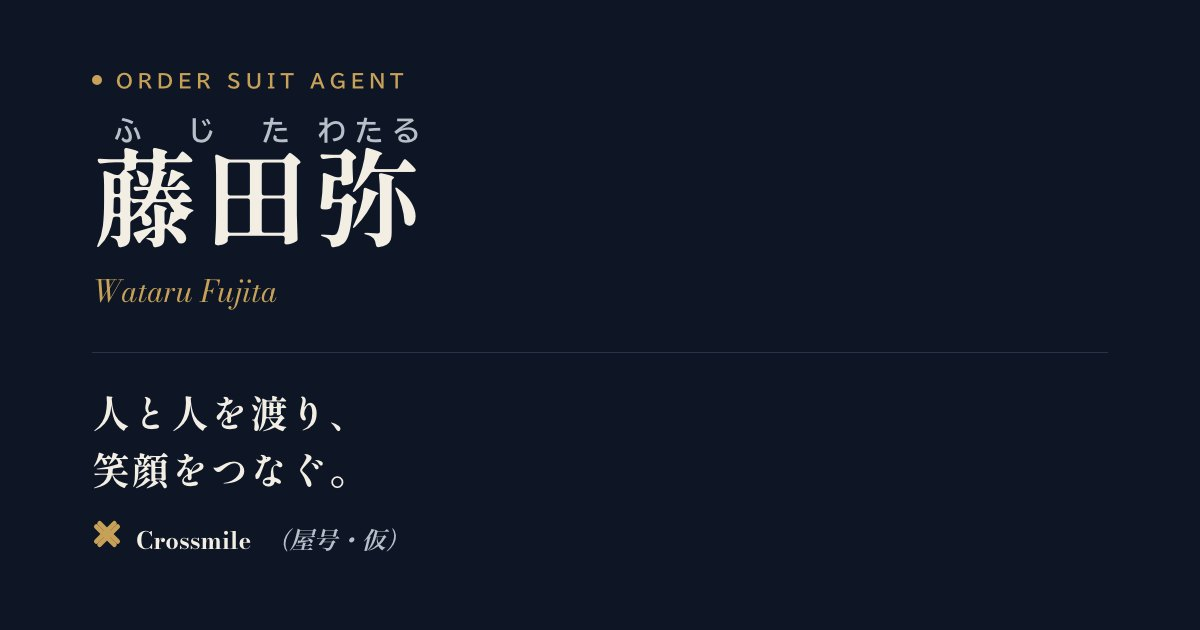
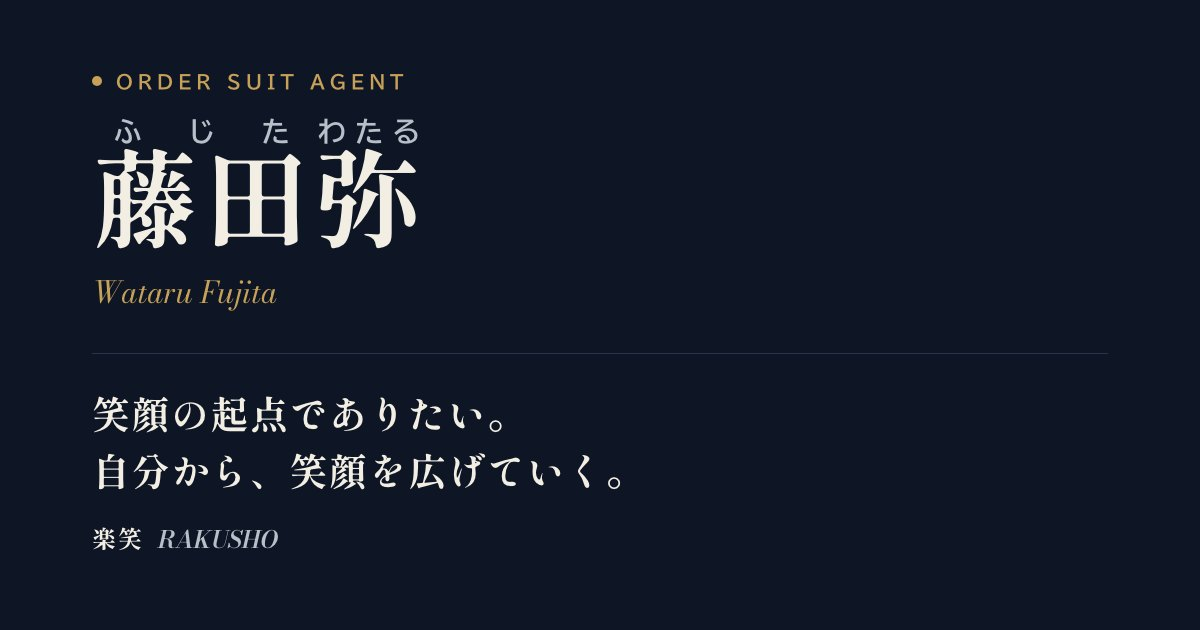
楽笑の理念・ブランドストーリーとロゴを反映（屋号をCrossmileから楽笑へ）
Claude-Session: https://claude.ai/code/session_017y8kmMmcdiB8tRD3jpuV5Q

diff --git a/index.html b/index.html
@@ -4,27 +4,27 @@
 <head>
 <meta charset="utf-8"/>
 <meta content="width=device-width, initial-scale=1" name="viewport"/>
-<title>藤田 弥｜Crossmile</title>
-<meta content="藤田弥（ふじた わたる）の自己紹介ページです。栃木県足利市で育ち、サッカーを経て、オーダースーツの営業を個人事業主として始めました。屋号はCrossmile（仮）です。" name="description"/>
+<title>藤田 弥｜楽笑 RAKUSHO</title>
+<meta content="藤田弥（ふじた わたる）の自己紹介ページです。栃木県足利市で育ち、サッカーを経て、オーダースーツの営業を個人事業主として始めました。屋号は楽笑（RAKUSHO）です。" name="description"/>
 <meta content="noindex,nofollow" name="robots"/>
 <link href="https://ryoseiimai.github.io/crossmile/" rel="canonical"/>
 <meta content="website" property="og:type"/>
-<meta content="Crossmile" property="og:site_name"/>
+<meta content="楽笑 RAKUSHO" property="og:site_name"/>
 <meta content="ja_JP" property="og:locale"/>
-<meta content="藤田 弥｜Crossmile" property="og:title"/>
-<meta content="藤田弥（ふじた わたる）。栃木県足利市で育ち、サッカーを経て、オーダースーツの営業を個人事業主として始めました。屋号はCrossmile（仮）です。" property="og:description"/>
+<meta content="藤田 弥｜楽笑 RAKUSHO" property="og:title"/>
+<meta content="藤田弥（ふじた わたる）。栃木県足利市で育ち、サッカーを経て、オーダースーツの営業を個人事業主として始めました。屋号は楽笑（RAKUSHO）です。" property="og:description"/>
 <meta content="https://ryoseiimai.github.io/crossmile/" property="og:url"/>
 <meta content="https://ryoseiimai.github.io/crossmile/img/ogp.jpg" property="og:image"/>
 <meta content="1200" property="og:image:width"/>
 <meta content="630" property="og:image:height"/>
-<meta content="紺の地に、金の二重線の×マークと藤田弥・Crossmileの文字、一文「人と人を渡り、笑顔をつなぐ。」" property="og:image:alt"/>
+<meta content="紺の地に、金の明朝体で「楽笑」の文字と藤田弥・RAKUSHOの文字、一文「自分から、笑顔を広げていく。」" property="og:image:alt"/>
 <meta content="summary_large_image" name="twitter:card"/>
 <meta content="#0E1626" name="theme-color"/>
 <link href="img/favicon-32.png" rel="icon" sizes="32x32" type="image/png"/>
 <link href="favicon.svg" rel="icon" type="image/svg+xml"/>
 <link href="https://fonts.googleapis.com" rel="preconnect"/>
 <link crossorigin="" href="https://fonts.gstatic.com" rel="preconnect"/>
-<link href="https://fonts.googleapis.com/css2?family=BIZ+UDPGothic:wght@400;700&amp;display=swap&amp;text=%21%22%23%24%25%26%27%28%29%2A%2B%2C-.%2F0123456789%3A%3B%3C%3D%3E%3F%40ABCDEFGHIJKLMNOPQRSTUVWXYZ%5B%5C%5D%5E_%60abcdefghijklmnopqrstuvwxyz%7B%7C%7D~%C2%A9%E2%80%A6%E2%86%92%E2%86%93%E2%86%97%E3%80%80%E3%80%81%E3%80%82%E3%80%85%E3%80%8C%E3%80%8D%E3%80%8E%E3%80%8F%E3%80%9C%E3%81%82%E3%81%84%E3%81%86%E3%81%88%E3%81%8A%E3%81%8B%E3%81%8C%E3%81%8D%E3%81%8F%E3%81%90%E3%81%91%E3%81%92%E3%81%93%E3%81%94%E3%81%97%E3%81%98%E3%81%99%E3%81%9A%E3%81%9B%E3%81%9D%E3%81%9F%E3%81%A0%E3%81%A1%E3%81%A3%E3%81%A4%E3%81%A5%E3%81%A6%E3%81%A7%E3%81%A8%E3%81%AA%E3%81%AB%E3%81%AE%E3%81%AF%E3%81%B0%E3%81%B1%E3%81%B3%E3%81%B5%E3%81%B8%E3%81%BE%E3%81%BF%E3%82%80%E3%82%81%E3%82%82%E3%82%84%E3%82%88%E3%82%89%E3%82%8A%E3%82%8B%E3%82%8C%E3%82%8D%E3%82%8F%E3%82%92%E3%82%93%E3%82%A4%E3%82%A8%E3%82%AA%E3%82%AB%E3%82%B0%E3%82%B4%E3%82%B5%E3%82%B8%E3%82%B9%E3%82%BF%E3%83%80%E3%83%83%E3%83%84%E3%83%86%E3%83%89%E3%83%8D%E3%83%93%E3%83%97%E3%83%9A%E3%83%9B%E3%83%9E%E3%83%A1%E3%83%A5%E3%83%A9%E3%83%AA%E3%83%AB%E3%83%AC%E3%83%B3%E3%83%BB%E3%83%BC%E4%B8%80%E4%B8%8A%E4%B8%A1%E4%B8%AD%E4%B8%BB%E4%BA%8B%E4%BA%AC%E4%BA%BA%E4%BB%8B%E4%BB%95%E4%BB%98%E4%BB%A3%E4%BB%AE%E4%BC%9A%E4%BD%93%E4%BD%95%E4%BF%AE%E5%80%8B%E5%82%99%E5%83%8D%E5%83%95%E5%84%AA%E5%85%88%E5%85%89%E5%85%A5%E5%85%A8%E5%86%85%E5%87%BA%E5%88%86%E5%88%A9%E5%89%8D%E5%8B%95%E5%8B%9D%E5%8B%A7%E5%8D%8A%E5%8D%A0%E5%8F%96%E5%8F%B7%E5%90%88%E5%90%8D%E5%95%8F%E5%96%B6%E5%9B%9E%E5%9B%BD%E5%9C%92%E5%A3%AB%E5%A3%B0%E5%A3%B2%E5%A4%A7%E5%A4%AA%E5%A5%91%E5%A5%BD%E5%A7%8B%E5%A9%9A%E5%AD%A6%E5%AE%9D%E5%AF%82%E5%AF%8C%E5%B0%8F%E5%B0%91%E5%B1%8A%E5%B1%8B%E5%B2%A9%E5%B8%82%E5%B9%B4%E5%BA%97%E5%BA%A7%E5%BC%95%E5%BC%A5%E5%BC%B5%E5%BD%A2%E5%BF%85%E6%80%9D%E6%81%A9%E6%84%9F%E6%88%90%E6%89%8B%E6%8A%BC%E6%8C%87%E6%8E%A2%E6%96%87%E6%96%B0%E6%96%B9%E6%97%A5%E6%9B%B4%E6%9C%88%E6%9C%A8%E6%9C%AC%E6%9D%B1%E6%9E%9A%E6%A0%83%E6%A1%88%E6%A5%AD%E6%AC%A1%E6%AD%A9%E6%AD%B4%E6%AF%8D%E6%AF%8E%E6%B0%97%E6%B1%A0%E6%B1%BA%E6%B8%A1%E6%BA%96%E7%90%86%E7%94%9F%E7%94%B0%E7%94%B1%E7%94%B3%E7%99%BA%E7%9C%8C%E7%9D%80%E7%9F%A5%E7%9F%B3%E7%A0%94%E7%A4%BE%E7%A7%BB%E7%A8%BC%E7%AB%8B%E7%AC%91%E7%B4%84%E7%B4%B9%E7%B5%8C%E7%B5%A1%E7%B6%9A%E7%B8%81%E7%B8%BE%E7%BE%BD%E8%80%83%E8%81%9E%E8%82%B2%E8%87%AA%E8%89%AF%E8%93%84%E8%97%A4%E8%A1%8C%E8%A6%81%E8%A6%8B%E8%A6%AA%E8%A8%80%E8%A8%AA%E8%AA%AD%E8%AA%B0%E8%B2%A9%E8%B5%A4%E8%B6%B3%E8%BC%AA%E8%BF%94%E9%80%A3%E9%80%B2%E9%81%8B%E9%81%B8%E9%83%A8%E9%87%91%E9%96%A2%E9%99%BD%E9%9B%86%E9%9B%A2%E9%9B%BB%E9%A0%91%E9%A0%AD%E9%A1%94%E9%A8%93%E9%AB%98%EF%BC%81%EF%BC%88%EF%BC%89%EF%BC%8F%EF%BC%9A%EF%BC%9D%EF%BC%9F" rel="stylesheet"/><link href="https://fonts.googleapis.com/css2?family=Shippori+Mincho+B1:wght@700&amp;display=swap&amp;text=%E2%80%A6%E2%86%92%E2%86%93%E2%86%97%E3%80%80%E3%80%81%E3%80%82%E3%80%85%E3%80%8C%E3%80%8D%E3%80%8E%E3%80%8F%E3%80%9C%E3%81%84%E3%81%86%E3%81%8B%E3%81%8C%E3%81%8D%E3%81%90%E3%81%91%E3%81%97%E3%81%98%E3%81%99%E3%81%9F%E3%81%A0%E3%81%A3%E3%81%A4%E3%81%A7%E3%81%A8%E3%81%AA%E3%81%AB%E3%81%AE%E3%81%B3%E3%81%B5%E3%81%BE%E3%82%82%E3%82%88%E3%82%89%E3%82%8A%E3%82%8B%E3%82%8F%E3%82%92%E3%82%93%E3%82%A8%E3%82%AB%E3%82%B5%E3%82%B8%E3%82%B9%E3%83%83%E3%83%84%E3%83%A5%E3%83%AA%E3%83%BB%E3%83%BC%E4%B8%BB%E4%BA%8B%E4%BA%BA%E4%BB%95%E4%BC%9A%E5%80%8B%E5%83%8D%E5%85%88%E5%88%A9%E5%A5%BD%E5%AE%9D%E5%BC%A5%E6%80%9D%E6%81%A9%E6%8E%A2%E6%97%A5%E6%A5%AD%E6%AC%A1%E6%AD%B4%E6%AF%8D%E6%B8%A1%E7%94%B0%E7%94%B1%E7%9F%B3%E7%A4%BE%E7%AC%91%E7%B5%8C%E7%B5%A1%E7%B6%9A%E8%87%AA%E8%97%A4%E8%A6%8B%E8%B6%B3%E8%BF%94%E9%80%A3%E9%81%B8%E9%A1%94%EF%BC%81%EF%BC%88%EF%BC%89%EF%BC%8F%EF%BC%9A%EF%BC%9F" rel="stylesheet"/><link href="https://fonts.googleapis.com/css2?family=Bodoni+Moda:ital,wght@0,400;0,500;0,600;1,400;1,500;1,600&amp;display=swap&amp;text=%2C.0123456789CEFIJLMNORSTWabehijlmnorstuwy%E3%80%81%E3%81%84%E3%81%93%E3%81%97%E3%81%9F%E3%81%A1%E3%81%A3%E3%81%A6%E3%81%A8%E3%81%AE%E3%81%B0%E3%82%8B%E3%82%8D%E3%82%92%E3%82%93%E3%82%AB%E3%82%B5%E3%82%B9%E3%83%83%E3%83%84%E3%83%BC%E4%BB%AE%E5%85%89%E5%95%8F%E5%A3%B2%E5%A4%AA%E6%9E%9A%E6%B1%A0%E7%99%BA%E7%9D%80%E7%AC%91%E8%93%84%E8%A8%AA%E8%B2%A9%E9%99%BD%E9%9B%BB" rel="stylesheet"/>
+<link href="https://fonts.googleapis.com/css2?family=BIZ+UDPGothic:wght@400;700&amp;display=swap&amp;text=%21%22%23%24%25%26%27%28%29%2A%2B%2C-.%2F0123456789%3A%3B%3C%3D%3E%3F%40ABCDEFGHIJKLMNOPQRSTUVWXYZ%5B%5C%5D%5E_%60abcdefghijklmnopqrstuvwxyz%7B%7C%7D~%C2%A9%E2%80%A6%E2%86%92%E2%86%93%E2%86%97%E3%80%80%E3%80%81%E3%80%82%E3%80%85%E3%80%8C%E3%80%8D%E3%80%8E%E3%80%8F%E3%80%9C%E3%81%82%E3%81%84%E3%81%86%E3%81%88%E3%81%8A%E3%81%8B%E3%81%8C%E3%81%8D%E3%81%8E%E3%81%8F%E3%81%90%E3%81%91%E3%81%92%E3%81%93%E3%81%94%E3%81%95%E3%81%97%E3%81%98%E3%81%99%E3%81%9B%E3%81%9D%E3%81%9F%E3%81%A0%E3%81%A1%E3%81%A3%E3%81%A4%E3%81%A5%E3%81%A6%E3%81%A7%E3%81%A8%E3%81%A9%E3%81%AA%E3%81%AB%E3%81%AD%E3%81%AE%E3%81%AF%E3%81%B0%E3%81%B2%E3%81%B3%E3%81%B5%E3%81%B8%E3%81%BB%E3%81%BE%E3%81%BF%E3%82%80%E3%82%81%E3%82%82%E3%82%84%E3%82%88%E3%82%89%E3%82%8A%E3%82%8B%E3%82%8C%E3%82%8D%E3%82%8F%E3%82%92%E3%82%93%E3%82%A4%E3%82%A8%E3%82%AA%E3%82%AB%E3%82%AE%E3%82%B0%E3%82%B5%E3%82%B8%E3%82%B9%E3%82%BB%E3%82%BF%E3%83%80%E3%83%83%E3%83%84%E3%83%89%E3%83%8D%E3%83%93%E3%83%96%E3%83%97%E3%83%9A%E3%83%9B%E3%83%A1%E3%83%A5%E3%83%A9%E3%83%AA%E3%83%AB%E3%83%AC%E3%83%AD%E3%83%B3%E3%83%BB%E3%83%BC%E4%B8%80%E4%B8%8E%E4%B8%96%E4%B8%A1%E4%B8%AD%E4%B8%BB%E4%BA%8B%E4%BA%92%E4%BA%AC%E4%BA%BA%E4%BB%8B%E4%BB%95%E4%BB%A3%E4%BB%B2%E4%BC%81%E4%BC%9A%E4%BC%B8%E4%BD%93%E4%BD%95%E4%BD%BF%E4%BE%A1%E4%BF%82%E4%BF%A1%E4%BF%AE%E5%80%8B%E5%80%A4%E5%82%99%E5%83%8D%E5%83%95%E5%84%AA%E5%85%86%E5%85%88%E5%85%89%E5%85%A5%E5%85%A8%E5%86%85%E5%87%BA%E5%88%86%E5%88%87%E5%88%A5%E5%88%A9%E5%89%8D%E5%8A%9B%E5%8A%A9%E5%8B%95%E5%8B%9D%E5%8C%96%E5%8D%8A%E5%8D%A0%E5%8F%96%E5%8F%A3%E5%8F%B0%E5%90%88%E5%90%8D%E5%90%91%E5%91%BD%E5%95%8F%E5%96%9C%E5%96%B6%E5%9B%9E%E5%9B%BD%E5%9C%92%E5%9E%8B%E5%A2%97%E5%A3%AB%E5%A3%B2%E5%A4%89%E5%A4%9A%E5%A4%A7%E5%A4%AA%E5%A5%BD%E5%A7%8B%E5%A9%9A%E5%AD%A6%E5%AE%9D%E5%AE%A2%E5%AF%82%E5%AF%8C%E5%B0%8F%E5%B0%91%E5%B1%8A%E5%B2%A9%E5%B3%B6%E5%B4%8E%E5%B8%82%E5%B9%95%E5%B9%B4%E5%B9%B9%E5%BA%83%E5%BA%97%E5%BA%A7%E5%BC%95%E5%BC%A5%E5%BC%B5%E5%BD%A2%E5%BD%BC%E5%BE%8C%E5%BF%85%E5%BF%B5%E6%80%9D%E6%80%A7%E6%81%A9%E6%82%94%E6%83%B3%E6%84%9F%E6%88%90%E6%88%A6%E6%89%8B%E6%8A%BC%E6%8C%81%E6%8C%87%E6%8C%91%E6%8C%AF%E6%8E%A2%E6%8E%A5%E6%8F%8F%E6%94%B9%E6%96%87%E6%96%B0%E6%96%B9%E6%97%A5%E6%98%94%E6%9C%80%E6%9C%88%E6%9C%8D%E6%9C%A8%E6%9C%AA%E6%9C%AC%E6%9D%A5%E6%9D%B1%E6%9E%9A%E6%9E%9C%E6%9E%9D%E6%9F%84%E6%A0%83%E6%A1%88%E6%A5%AD%E6%A5%BD%E6%A7%98%E6%AC%A1%E6%AD%A9%E6%AD%B4%E6%AE%8B%E6%AF%8D%E6%AF%8E%E6%B0%97%E6%B1%A0%E6%B1%BA%E6%B8%A1%E6%BA%96%E6%BF%B1%E7%82%B9%E7%84%A1%E7%90%86%E7%94%9F%E7%94%B0%E7%94%B1%E7%94%B3%E7%95%8C%E7%95%AA%E7%99%BA%E7%9B%AE%E7%9B%B4%E7%9C%8C%E7%9D%80%E7%9F%A5%E7%9F%B3%E7%A0%94%E7%A3%A8%E7%A4%BE%E7%A7%BB%E7%A8%BC%E7%A9%8D%E7%AB%8B%E7%AC%91%E7%AF%89%E7%B4%B9%E7%B5%82%E7%B5%8C%E7%B5%90%E7%B5%A1%E7%B6%9A%E7%B7%92%E7%B8%81%E7%B8%BE%E7%BA%8F%E7%BE%BD%E8%80%83%E8%81%9E%E8%82%B2%E8%87%AA%E8%88%9E%E8%91%89%E8%93%84%E8%97%A4%E8%A1%8C%E8%A3%85%E8%A6%81%E8%A6%8B%E8%A6%AA%E8%A6%B3%E8%A7%A6%E8%A8%80%E8%A8%AA%E8%A9%B1%E8%AA%AD%E8%AA%B0%E8%B1%8A%E8%B2%A0%E8%B2%A9%E8%B5%A4%E8%B5%B7%E8%B6%85%E8%B6%B3%E8%BA%AB%E8%BB%A2%E8%BC%AA%E8%BE%BC%E8%BF%94%E9%80%81%E9%80%A3%E9%80%B2%E9%81%8B%E9%81%95%E9%81%B8%E9%83%A8%E9%87%8D%E9%87%91%E9%8E%96%E9%95%B7%E9%96%89%E9%96%93%E9%96%A2%E9%99%90%E9%99%BD%E9%9B%A2%E9%9B%BB%E9%A0%91%E9%A0%AD%E9%A0%BC%E9%A1%94%E9%A3%9B%E9%AB%98%E9%AB%AA%E9%AD%85%EF%BC%81%EF%BC%88%EF%BC%89%EF%BC%8F%EF%BC%9A%EF%BC%9F" rel="stylesheet"/><link href="https://fonts.googleapis.com/css2?family=Shippori+Mincho+B1:wght@700&amp;display=swap&amp;text=%E2%80%A6%E2%86%92%E2%86%93%E2%86%97%E3%80%80%E3%80%81%E3%80%82%E3%80%85%E3%80%8C%E3%80%8D%E3%80%8E%E3%80%8F%E3%80%9C%E3%81%82%E3%81%84%E3%81%86%E3%81%8B%E3%81%8C%E3%81%8D%E3%81%8F%E3%81%91%E3%81%92%E3%81%97%E3%81%98%E3%81%99%E3%81%9F%E3%81%A3%E3%81%A4%E3%81%A6%E3%81%A7%E3%81%A8%E3%81%AA%E3%81%AB%E3%81%AE%E3%81%B5%E3%81%BE%E3%82%82%E3%82%88%E3%82%89%E3%82%8A%E3%82%8B%E3%82%8C%E3%82%8F%E3%82%92%E3%82%93%E3%82%A8%E3%82%AB%E3%82%B5%E3%82%B8%E3%82%B9%E3%83%83%E3%83%84%E3%83%A5%E3%83%AA%E3%83%BB%E3%83%BC%E4%B8%80%E4%B8%BB%E4%BA%8B%E4%BA%BA%E4%BB%95%E4%BC%9A%E5%80%8B%E5%83%8D%E5%85%88%E5%87%BA%E5%88%86%E5%88%A9%E5%A3%B2%E5%A5%BD%E5%AE%9D%E5%BA%83%E5%BC%A5%E5%BF%B5%E6%80%9D%E6%81%A9%E6%8E%A2%E6%97%A5%E6%9E%9D%E6%A5%AD%E6%A5%BD%E6%AC%A1%E6%AD%B4%E6%AF%8D%E7%82%B9%E7%84%A1%E7%90%86%E7%94%9F%E7%94%B0%E7%94%B1%E7%9F%B3%E7%A4%BE%E7%AC%91%E7%B5%82%E7%B5%8C%E7%B5%A1%E7%B6%9A%E8%87%AA%E8%91%89%E8%97%A4%E8%A6%8B%E8%B5%B7%E8%B6%B3%E8%BF%94%E9%80%A3%E9%99%90%E9%A0%BC%E9%A1%94%EF%BC%81%EF%BC%88%EF%BC%89%EF%BC%8F%EF%BC%9A%EF%BC%9F" rel="stylesheet"/><link href="https://fonts.googleapis.com/css2?family=Bodoni+Moda:ital,wght@0,400;0,500;0,600;1,400;1,500;1,600&amp;display=swap&amp;text=%2C.0123456789AFHJKNORSTUWabehijnorstuwy%E3%80%81%E3%81%84%E3%81%93%E3%81%97%E3%81%9F%E3%81%A1%E3%81%A3%E3%81%A6%E3%81%A8%E3%81%AE%E3%81%B0%E3%82%8B%E3%82%8D%E3%82%92%E3%82%93%E3%82%AB%E3%82%B5%E3%82%B9%E3%83%83%E3%83%84%E3%83%BC%E5%85%89%E5%95%8F%E5%A3%B2%E5%A4%AA%E6%9E%9A%E6%B1%A0%E7%99%BA%E7%9D%80%E7%AC%91%E8%93%84%E8%A8%AA%E8%B2%A9%E9%99%BD%E9%9B%BB" rel="stylesheet"/>
 <script>
 
 document.documentElement.classList.add('js');
@@ -90,8 +90,7 @@ p,li,dd,figcaption{text-wrap:pretty}
 .skip:focus{top:12px}
 
 
-.icon-x2{display:inline-block;flex:none;width:1em;height:1em;vertical-align:-0.12em}
-.icon-x2 line{stroke:currentColor;stroke-width:1.5;stroke-linecap:round}
+.mark-rakusho{font-family:var(--font-mincho);font-weight:700;letter-spacing:.08em;color:var(--gold)}
 
 
 .label{display:inline-flex;align-items:center;gap:.75em;font-size:12.5px;font-weight:700;line-height:1.4;letter-spacing:.22em;text-transform:uppercase;color:var(--gold-deep)}
@@ -116,9 +115,10 @@ p,li,dd,figcaption{text-wrap:pretty}
 .site-header{position:sticky;top:0;z-index:50;background:rgba(14,22,38,.94);-webkit-backdrop-filter:saturate(1.1) blur(10px);backdrop-filter:saturate(1.1) blur(10px);transition:box-shadow .3s}
 .site-header.is-scrolled{box-shadow:0 1px 0 var(--line-navy)}
 .header-inner{display:flex;align-items:center;justify-content:space-between;gap:24px;height:var(--header-h)}
-.logo{flex:none;display:inline-flex;align-items:center;gap:7px;white-space:nowrap;font-family:var(--font-serif);font-style:italic;font-weight:600;font-size:21px;letter-spacing:0;line-height:1;text-decoration:none;color:var(--on-navy);padding:6px 2px}
-.logo .icon-x2{color:var(--gold);font-size:16px}
-.logo-tag{font-family:var(--font-gothic);font-style:normal;font-weight:700;font-size:10.5px;letter-spacing:.04em;color:var(--on-navy-2)}
+.logo{flex:none;display:inline-flex;align-items:baseline;gap:8px;white-space:nowrap;line-height:1;text-decoration:none;color:var(--on-navy);padding:6px 2px}
+.logo .mark-rakusho{font-size:22px}
+.logo .logo-en{font-family:var(--font-serif);font-style:italic;font-weight:600;font-size:12.5px;letter-spacing:.06em;color:var(--on-navy-2)}
+.logo .logo-mark{width:40px;height:40px;display:block}
 .gnav ul{display:flex;align-items:center;gap:clamp(16px,2vw,30px)}
 .gnav a{position:relative;display:block;white-space:nowrap;font-size:12.5px;font-weight:700;letter-spacing:.18em;line-height:1.4;text-decoration:none;color:var(--on-navy-2);padding:8px 0;transition:color .2s}
 .gnav a:not(.nav-contact)::after{content:"";position:absolute;left:0;right:.2em;bottom:2px;height:1.5px;background:var(--gold);transform:scaleX(0);transform-origin:left;transition:transform .35s var(--ease)}
@@ -165,7 +165,7 @@ html.menu-open{overflow:hidden}
 .hero .intro{margin-top:22px;max-width:30em;color:var(--on-navy-2)}
 .hero .tagline{margin-top:26px;font-size:clamp(23px,2.6vw,32px);line-height:1.55;letter-spacing:.04em;color:var(--on-navy)}
 .signature{margin-top:20px;display:flex;align-items:baseline;gap:10px;font-size:13px;font-weight:700;letter-spacing:.14em;color:var(--on-navy-2)}
-.signature .icon-x2{color:var(--gold);font-size:17px}
+.signature .mark-rakusho{font-size:19px}
 .signature .en{font-family:var(--font-serif);font-style:italic;letter-spacing:.02em;color:var(--gold)}
 .signature .slash{color:var(--line-navy)}
 .origin-note{margin-top:10px;font-size:14.5px;line-height:1.8;color:var(--on-navy-2);max-width:27em}
@@ -176,6 +176,8 @@ html.menu-open{overflow:hidden}
 .origin-inner{max-width:620px;margin-inline:auto;text-align:center}
 .origin-inner .signature{justify-content:center;margin-top:0}
 .origin-inner .origin-note{margin-inline:auto}
+.origin-logo{width:clamp(140px,22vw,200px);height:auto;margin-inline:auto}
+.origin-logo+.origin-note{margin-top:18px}
 .btn{display:inline-flex;align-items:center;justify-content:center;gap:.6em;min-height:50px;padding:0 26px;border-radius:var(--r-sm);font-size:14.5px;font-weight:700;letter-spacing:.08em;line-height:1.4;text-decoration:none;border:1.5px solid var(--gold);color:var(--on-navy);background:none;transition:background .2s,color .2s}
 .btn:hover{background:var(--gold);color:var(--ink)}
 .btn .arw{font-size:1.05em;line-height:1;transition:transform .25s var(--ease)}
@@ -260,6 +262,27 @@ html.menu-open{overflow:hidden}
 @media (min-width:1080px){.now-grid .now-photo{max-width:260px}}
 
 
+.philosophy{padding:var(--sec) 0}
+.ph-block+.ph-block{margin-top:clamp(52px,7vw,88px);padding-top:clamp(40px,5vw,60px);border-top:1px solid var(--line-paper)}
+.ph-block h3{font-size:clamp(23px,2.8vw,30px);line-height:1.6;letter-spacing:.03em}
+.ph-block .prose{margin-top:18px}
+.ph-quote{margin-top:22px;font-family:var(--font-mincho);font-weight:700;font-size:clamp(19px,2.2vw,24px);line-height:1.8;letter-spacing:.03em;color:var(--ink)}
+.ph-vision{margin-top:clamp(52px,7vw,88px);padding:clamp(40px,5vw,56px) clamp(28px,4vw,48px);background:var(--navy);color:var(--on-navy);border-radius:var(--r-lg)}
+.ph-vision .label{color:var(--gold)}
+.ph-vision h3{margin-top:14px;color:var(--on-navy);font-size:clamp(25px,3.2vw,34px);line-height:1.6}
+.ph-vision .prose{margin-top:18px;color:var(--on-navy-2)}
+.ph-table{margin-top:clamp(52px,7vw,88px)}
+.ph-table table{width:100%;border-collapse:collapse}
+.ph-table th,.ph-table td{text-align:left;padding:18px 16px;border-bottom:1px solid var(--line-paper);vertical-align:top}
+.ph-table th{width:9.5em;font-family:var(--font-mincho);font-weight:700;font-size:14.5px;letter-spacing:.06em;color:var(--gold-deep)}
+.ph-table td{font-size:15.5px;line-height:1.85;color:var(--ink-2)}
+@media (max-width:719px){
+  .ph-table th,.ph-table td{display:block;width:auto;padding:4px 0}
+  .ph-table tr{display:block;padding:16px 0;border-bottom:1px solid var(--line-paper)}
+  .ph-table th,.ph-table td{border-bottom:0}
+}
+
+
 .contact{padding:var(--sec) 0 calc(var(--sec)*.8)}
 .contact .lead{margin-top:24px;max-width:34em}
 .contact h2{margin-top:20px;font-size:clamp(28px,4vw,52px);line-height:1.5;letter-spacing:.03em}
@@ -278,13 +301,14 @@ html.menu-open{overflow:hidden}
 <a class="skip" href="#main">本文へ<wbr>移動</a>
 <header class="site-header">
 <div class="wrap header-inner">
-<a aria-label="Crossmile（屋号は仮）　ページの先頭へ" class="logo" href="#top"><svg aria-hidden="true" class="icon-x2" viewbox="0 0 20 20"><line x1="2.9" x2="14.9" y1="5.1" y2="17.1"></line><line x1="5.1" x2="17.1" y1="2.9" y2="14.9"></line><line x1="14.9" x2="2.9" y1="2.9" y2="14.9"></line><line x1="17.1" x2="5.1" y1="5.1" y2="17.1"></line></svg>Crossmile<span aria-hidden="true" class="logo-tag">仮</span></a>
+<a aria-label="楽笑　ページの先頭へ" class="logo" href="#top"><img alt="" class="logo-mark" height="40" src="img/rakusho-logo.png" width="40"/></a>
 <nav aria-label="ページ内の移動" class="gnav">
 <ul>
 <li><a data-nav="about" href="#about">ABOUT</a></li>
 <li><a data-nav="football" href="#football">FOOTBALL</a></li>
 <li><a data-nav="career" href="#career">CAREER</a></li>
 <li><a data-nav="now" href="#now">NOW</a></li>
+<li><a data-nav="philosophy" href="#philosophy">PHILOSOPHY</a></li>
 <li><a class="nav-contact" data-nav="contact" href="#contact">CONTACT</a></li>
 </ul>
 </nav>
@@ -298,9 +322,10 @@ html.menu-open{overflow:hidden}
 <li><a data-nav="football" href="#football"><span class="menu-jp">サッカー</span><span class="menu-en">FOOTBALL</span></a></li>
 <li><a data-nav="career" href="#career"><span class="menu-jp">経歴</span><span class="menu-en">CAREER</span></a></li>
 <li><a data-nav="now" href="#now"><span class="menu-jp">いまの<wbr>仕事</span><span class="menu-en">NOW</span></a></li>
+<li><a data-nav="philosophy" href="#philosophy"><span class="menu-jp">楽笑の<wbr>理念</span><span class="menu-en">PHILOSOPHY</span></a></li>
 <li><a data-nav="contact" href="#contact"><span class="menu-jp">連絡先</span><span class="menu-en">CONTACT</span></a></li>
 </ul>
-<p class="menu-note">オーダースーツの<wbr>営業　個人事業主　Crossmile<wbr>（屋号・仮）</p>
+<p class="menu-note">オーダースーツの<wbr>営業　個人事業主　楽笑<wbr> RAKUSHO</p>
 </nav>
 </div>
 <main id="main">
@@ -315,7 +340,7 @@ html.menu-open{overflow:hidden}
 <h1 id="name"><ruby>藤田<rt>ふじた</rt></ruby><ruby>弥<rt>わたる</rt></ruby></h1>
 <p class="en" lang="en">Wataru Fujita</p>
 <p class="intro">藤田弥と<wbr>申します。<wbr>仕事は、<wbr>オーダースーツの<wbr>営業です。<wbr>紹介で<wbr>つながった方に、<wbr>好きな<wbr>スーツを<wbr>届けていきます。</p>
-<p class="tagline mincho">人と<wbr>人を<wbr>渡り、<wbr>笑<wbr>顔を<wbr>つなぐ。</p>
+<p class="tagline mincho">笑<wbr>顔の<wbr>起点でありたい。<br/>自分から、笑顔を<wbr>広げていく。</p>
 <div class="cta">
 <a class="btn" href="#career">歩みを<wbr>読む<span aria-hidden="true" class="arw">↓</span></a>
 <a class="btn" href="#contact">連絡先</a>
@@ -325,8 +350,8 @@ html.menu-open{overflow:hidden}
 </section>
 <section aria-label="屋号について" class="origin-band band-navy-deep">
 <div class="wrap origin-inner">
-<p aria-label="金の二重線の×印。CROSSとSMILEを組み合わせた屋号Crossmile（仮）のしるし" class="signature" role="img"><svg aria-hidden="true" class="icon-x2" viewbox="0 0 20 20"><line x1="2.9" x2="14.9" y1="5.1" y2="17.1"></line><line x1="5.1" x2="17.1" y1="2.9" y2="14.9"></line><line x1="14.9" x2="2.9" y1="2.9" y2="14.9"></line><line x1="17.1" x2="5.1" y1="5.1" y2="17.1"></line></svg><span class="en" lang="en">CROSS</span><span aria-hidden="true" class="slash">/</span><span class="en" lang="en">SMILE</span></p>
-<p class="origin-note">弥<wbr>（わたる）という<wbr>名前は、<wbr>「知れ渡る」から<wbr>付けられました。<wbr>屋号Crossmile<wbr>（仮）は、<wbr>渡る<wbr>＝cross、<wbr>笑<wbr>顔＝smileから<wbr>生まれています。</p>
+<img alt="楽笑 RAKUSHO のロゴ" class="origin-logo" height="200" src="img/rakusho-logo.png" width="200"/>
+<p class="origin-note">僕の<wbr>一番の<wbr>取り柄は、<wbr>笑顔です。<wbr>自分から、笑顔を<wbr>広げていく。<wbr>その<wbr>想いを<wbr>「楽笑」という<wbr>名前に<wbr>込めました。</p>
 </div>
 </section>
 <section aria-labelledby="about-title" class="about" data-spy="about" id="about">
@@ -339,6 +364,7 @@ html.menu-open{overflow:hidden}
 <div class="prose">
 <p>僕は<wbr>栃木県足利市で<wbr>育ちました。<wbr>小学4年生の<wbr>とき<wbr>両親が<wbr>離婚し、<wbr>母に<wbr>引き取られました。</p>
 <p>寂しいとは<wbr>感じませんでした。<wbr>サッカーで<wbr>母に<wbr>恩返しを<wbr>する<wbr>ことが、<wbr>僕の<wbr>頑張る<wbr>理由に<wbr>なったからです。</p>
+<p>僕は、<wbr>昔から<wbr>自分に<wbr>自信が<wbr>あったわけではありません。<wbr>だから<wbr>こそ、<wbr>髪型や<wbr>服装、<wbr>身体づくり、<wbr>振る<wbr>舞いに<wbr>こだわり、<wbr>自分<wbr>自身を<wbr>磨いてきました。<wbr>「自信は、<wbr>自分で<wbr>つくる<wbr>もの。」そう<wbr>感じています。</p>
 </div>
 </div>
 </div>
@@ -356,8 +382,9 @@ html.menu-open{overflow:hidden}
 </figure>
 <div class="chapter-body prose">
 <p>サッカーの<wbr>ために、<wbr>東京・赤羽に<wbr>ある<wbr>成立学園に<wbr>進みました。<wbr>大学は、<wbr>岩手県の<wbr>富士大学です。</p>
-<p>大学3年生の<wbr>とき、<wbr>サッカーで<wbr>全国優勝しました。<wbr>大学を<wbr>出た<wbr>あとは、<wbr>関東の<wbr>社会人リーグ1部で<wbr>プレーする<wbr>選手でした。</p>
-<p>契約更新の<wbr>とき、<wbr>上の<wbr>カテゴリーから<wbr>声が<wbr>かからなければ<wbr>やめようと<wbr>決めていたんです。<wbr>声は<wbr>かからず、<wbr>すっぱり<wbr>サッカーを<wbr>やめました。</p>
+<p>大学3年生の<wbr>とき、<wbr>サッカーで<wbr>全国優勝しました。<wbr>小学2年生から<wbr>サッカーを<wbr>始め、<wbr>社会人1年目まで<wbr>プレーしてきました。<wbr>最後は、<wbr>関東社会人サッカーリーグ1部の<wbr>エリース豊島FCで、<wbr>長年続けてきた<wbr>サッカー人生に<wbr>幕を<wbr>閉じました。</p>
+<p>一緒に<wbr>プレーした<wbr>仲間の<wbr>中には、<wbr>プロサッカー選手に<wbr>なった<wbr>人も<wbr>います。<wbr>彼らを<wbr>見て、<wbr>悔しい<wbr>気持ちも<wbr>ありました。<wbr>自分も<wbr>負けたくない、<wbr>違う<wbr>舞台で<wbr>彼らを<wbr>超える<wbr>ほどの<wbr>結果を<wbr>残したい。<wbr>そんな<wbr>想いから、<wbr>ビジネスの<wbr>世界へ<wbr>飛び込みました。</p>
+<p>いつか、<wbr>自分が<wbr>仕立てたスーツを、<wbr>その<wbr>仲間たちに<wbr>着て<wbr>もらいたいと<wbr>思っています。</p>
 </div>
 </div>
 </section>
@@ -395,16 +422,59 @@ html.menu-open{overflow:hidden}
 <div class="chapter-head">
 <p class="chapter-no serif">03</p>
 <p class="label">NOW</p>
-<h2 id="now-title">もともと、<br/>スーツが<wbr>好きでした。</h2>
+<h2 id="now-title">スーツを<wbr>売って、<br/>終わりにしない。</h2>
 </div>
 <figure class="now-photo photo-frame" data-ratio="3-4">
 <span aria-hidden="true" class="frame-border"></span>
 <p class="photo-cap">No.03　スーツを<wbr>着た<wbr>1枚</p>
 </figure>
 <div class="chapter-body prose">
-<p>縁が<wbr>あって、<wbr>オーダースーツの<wbr>仕事を<wbr>している<wbr>方と<wbr>出会いました。<wbr>もともと<wbr>スーツが<wbr>好きで、<wbr>営業マンらしい<wbr>きれいな<wbr>ネイビーが<wbr>気に入っています。</p>
-<p>自分が<wbr>体験して<wbr>良かった<wbr>ものを、<wbr>人に<wbr>勧めていきます。<wbr>何かの<wbr>集まりに<wbr>出ることも、<wbr>人づてに<wbr>つながることも、<wbr>僕にとっては<wbr>紹介です。<wbr>出会った<wbr>人との<wbr>つながりを<wbr>大事に<wbr>して、<wbr>仕事を<wbr>しています。</p>
-<p>これから、<wbr>オーダースーツの<wbr>代理店として<wbr>動き始めます。<wbr>営業の<wbr>仕方は、<wbr>紹介で<wbr>つながる形に<wbr>する<wbr>つもりです。</p>
+<p>僕が<wbr>オーダースーツの<wbr>仕事に<wbr>魅力を<wbr>感じた<wbr>一番の<wbr>理由は、<wbr>人との<wbr>つながりです。<wbr>多くの<wbr>人と<wbr>出会い、<wbr>一人<wbr>ひとりとの<wbr>関係を<wbr>大切に<wbr>しながら、<wbr>つながりを<wbr>広げていきたい。<wbr>オーダースーツは、<wbr>その<wbr>入り口に<wbr>なると<wbr>考えています。</p>
+<p>一着の<wbr>スーツを<wbr>仕立てる<wbr>ことで、<wbr>一人の<wbr>お客様と<wbr>出会う。<wbr>その<wbr>出会いから<wbr>信頼関係が<wbr>生まれる。<wbr>スーツを<wbr>売って<wbr>関係が<wbr>終わるのではなく、<wbr>スーツを<wbr>きっかけに<wbr>関係が<wbr>始まる。<wbr>それが、<wbr>僕の<wbr>思い描く<wbr>オーダースーツの<wbr>仕事です。</p>
+<p>自分に<wbr>合った<wbr>一着を<wbr>身に<wbr>纏う<wbr>ことで、<wbr>少しでも<wbr>自分を<wbr>好きに<wbr>なって<wbr>もらいたい。<wbr>その<wbr>自信が、<wbr>新しい<wbr>挑戦や<wbr>人生の<wbr>前向きな<wbr>変化に<wbr>つながってほしいと<wbr>思っています。</p>
+<p>縁が<wbr>あって、<wbr>オーダースーツの<wbr>代理店として<wbr>動き始めます。<wbr>営業の<wbr>仕方は、<wbr>紹介で<wbr>つながる形に<wbr>する<wbr>つもりです。<wbr>きっかけの<wbr>一つが、<wbr>濱崎兆さんとの<wbr>出会いでした。<wbr>兆さんの笑<wbr>顔と<wbr>エネルギーに<wbr>触れ、<wbr>自分も<wbr>誰かにとって<wbr>前向きな<wbr>きっかけを<wbr>与えられる<wbr>人間でありたいと、<wbr>改めて<wbr>思いました。</p>
+</div>
+</div>
+</section>
+<section aria-labelledby="philosophy-title" class="philosophy" data-spy="philosophy" id="philosophy">
+<div class="wrap">
+<div class="sec-head">
+<p class="chapter-no serif">04</p>
+<p class="label">PHILOSOPHY</p>
+<h2 id="philosophy-title">楽笑の<wbr>理念</h2>
+</div>
+<div class="ph-block">
+<h3 class="mincho">頼り、<wbr>頼られる<wbr>人生を。</h3>
+<div class="prose">
+<p>僕が<wbr>目指しているのは、<wbr>ただ<wbr>知り合いが<wbr>多い<wbr>人生ではありません。<wbr>頼り、<wbr>頼られる<wbr>人生です。<wbr>「この<wbr>人に<wbr>話を<wbr>聞いてみたい」<wbr>「この<wbr>人なら、<wbr>何とかしてくれそう」。<wbr>そう<wbr>思ってもらえる<wbr>こと自体が、<wbr>僕にとって<wbr>大きな<wbr>喜びです。</p>
+<p>もちろん、<wbr>僕自身も<wbr>人を<wbr>頼り、<wbr>助けて<wbr>もらいながら<wbr>生きていきたい。<wbr>お互いが<wbr>必要な<wbr>ときに<wbr>頼り合い、<wbr>互いの<wbr>人生を<wbr>豊かに<wbr>できる<wbr>関係。<wbr>そんな<wbr>ご縁を<wbr>増やしていきたいと<wbr>考えています。</p>
+</div>
+</div>
+<div class="ph-block">
+<h3 class="mincho">自分を<wbr>起点に、<wbr>広がる<wbr>枝葉。</h3>
+<div class="prose">
+<p>僕が<wbr>思い描いている<wbr>人との<wbr>つながりは、<wbr>一本の<wbr>木のような<wbr>ものです。<wbr>自分を<wbr>幹として、<wbr>出会った<wbr>人との<wbr>関係が<wbr>枝と<wbr>なる。<wbr>その<wbr>枝から、<wbr>また<wbr>別の<wbr>枝が<wbr>伸びていく。</p>
+<p>自分が<wbr>直接関わっていない<wbr>ところでも、<wbr>自分を<wbr>きっかけに<wbr>生まれた笑<wbr>顔が<wbr>広がり続けている。<wbr>そんな<wbr>人生を<wbr>送りたい。<wbr>自分の<wbr>名前が<wbr>「弥」であるように、笑顔も<wbr>ご縁も、<wbr>広く<wbr>行き<wbr>渡っていく。<wbr>それが、<wbr>僕の<wbr>思い描く<wbr>楽笑の<wbr>未来です。</p>
+</div>
+<p class="ph-quote">一着から、<wbr>一生の<wbr>ご縁へ。</p>
+</div>
+<div class="ph-vision">
+<p class="label">OUR VISION</p>
+<h3 class="mincho">一つの<wbr>出会いから、<br/>無限の笑顔を。</h3>
+<div class="prose">
+<p>自分<wbr>自身が<wbr>人生を<wbr>楽しみ、<wbr>笑顔で<wbr>生きる。<wbr>その笑<wbr>顔を、<wbr>自分と<wbr>関わる<wbr>人へ<wbr>届ける。<wbr>人との<wbr>出会いを<wbr>大切にし、<wbr>信頼を<wbr>積み重ね、<wbr>頼り、<wbr>頼られる<wbr>関係を<wbr>築いていく。<wbr>その<wbr>先で<wbr>生まれた笑<wbr>顔が、<wbr>また<wbr>次の<wbr>誰かへと<wbr>広がっていく。<wbr>楽笑は、<wbr>その<wbr>連鎖が<wbr>生まれる<wbr>起点でありたいと<wbr>考えています。</p>
+</div>
+</div>
+<div class="ph-table">
+<table>
+<tr><th>企業理念</th><td>笑<wbr>顔の<wbr>起点でありたい。</td></tr>
+<tr><th>目指す未来</th><td>一つの<wbr>出会いから、<wbr>無限の笑顔を。</td></tr>
+<tr><th>使命</th><td>人と<wbr>人を<wbr>つなぎ、<wbr>人生が<wbr>好転する<wbr>きっかけを<wbr>届ける。</td></tr>
+<tr><th>大切に<wbr>する<wbr>価値観</th><td>自信は<wbr>自分で<wbr>つくる<wbr>もの。</td></tr>
+<tr><th>人との<wbr>関係性</th><td>頼り、<wbr>頼られる<wbr>人生を。</td></tr>
+<tr><th>事業の<wbr>考え方</th><td>一着から、<wbr>一生の<wbr>ご縁へ。</td></tr>
+<tr><th>ブランドメッセージ</th><td>自分から、笑顔を<wbr>広げていく。</td></tr>
+</table>
 </div>
 </div>
 </section>
@@ -412,7 +482,7 @@ html.menu-open{overflow:hidden}
 <div class="wrap">
 <p class="label">CONTACT</p>
 <p class="lead prose">紹介で<wbr>つながる<wbr>営業を<wbr>大事に<wbr>しています。</p>
-<h2 id="contact-title">だから、<br/>スーツの<wbr>仕事を<wbr>選びました。</h2>
+<h2 id="contact-title">自分から、<br/>笑<wbr>顔を<wbr>広げていく。</h2>
 <div aria-hidden="true" class="contact-divider"></div>
 <div class="contact-ctas">
 <span aria-disabled="true" class="btn-pending" role="button">オーダースーツの<wbr>ご案内<span class="tag-pending">準備中</span></span>
@@ -424,10 +494,10 @@ html.menu-open{overflow:hidden}
 </main>
 <footer class="site-footer band-navy-deep">
 <div class="wrap" style="display:flex;align-items:center;justify-content:space-between;flex-wrap:wrap;gap:12px 24px;padding:26px 0 34px;border-top:1px solid var(--line-navy)">
-<a aria-label="Crossmile（屋号は仮）　ページの先頭へ" class="logo" href="#top" style="color:var(--on-navy)"><svg aria-hidden="true" class="icon-x2" viewbox="0 0 20 20"><line x1="2.9" x2="14.9" y1="5.1" y2="17.1"></line><line x1="5.1" x2="17.1" y1="2.9" y2="14.9"></line><line x1="14.9" x2="2.9" y1="2.9" y2="14.9"></line><line x1="17.1" x2="5.1" y1="5.1" y2="17.1"></line></svg>Crossmile<span aria-hidden="true" class="logo-tag">仮</span></a>
+<a aria-label="楽笑　ページの先頭へ" class="logo" href="#top" style="color:var(--on-navy)"><img alt="" class="logo-mark" height="40" src="img/rakusho-logo.png" width="40"/></a>
 <div style="display:flex;align-items:center;gap:22px">
 <a href="#top" style="font-size:13px;font-weight:700;letter-spacing:.1em;color:var(--on-navy);text-decoration:none;padding:6px 0;border-bottom:1px solid var(--line-navy)">ページの<wbr>先頭へ</a>
-<small style="font-size:13px;letter-spacing:.08em;color:var(--on-navy-2)">© Crossmile</small>
+<small style="font-size:13px;letter-spacing:.08em;color:var(--on-navy-2)">© RAKUSHO</small>
 </div>
 </div>
 </footer>
